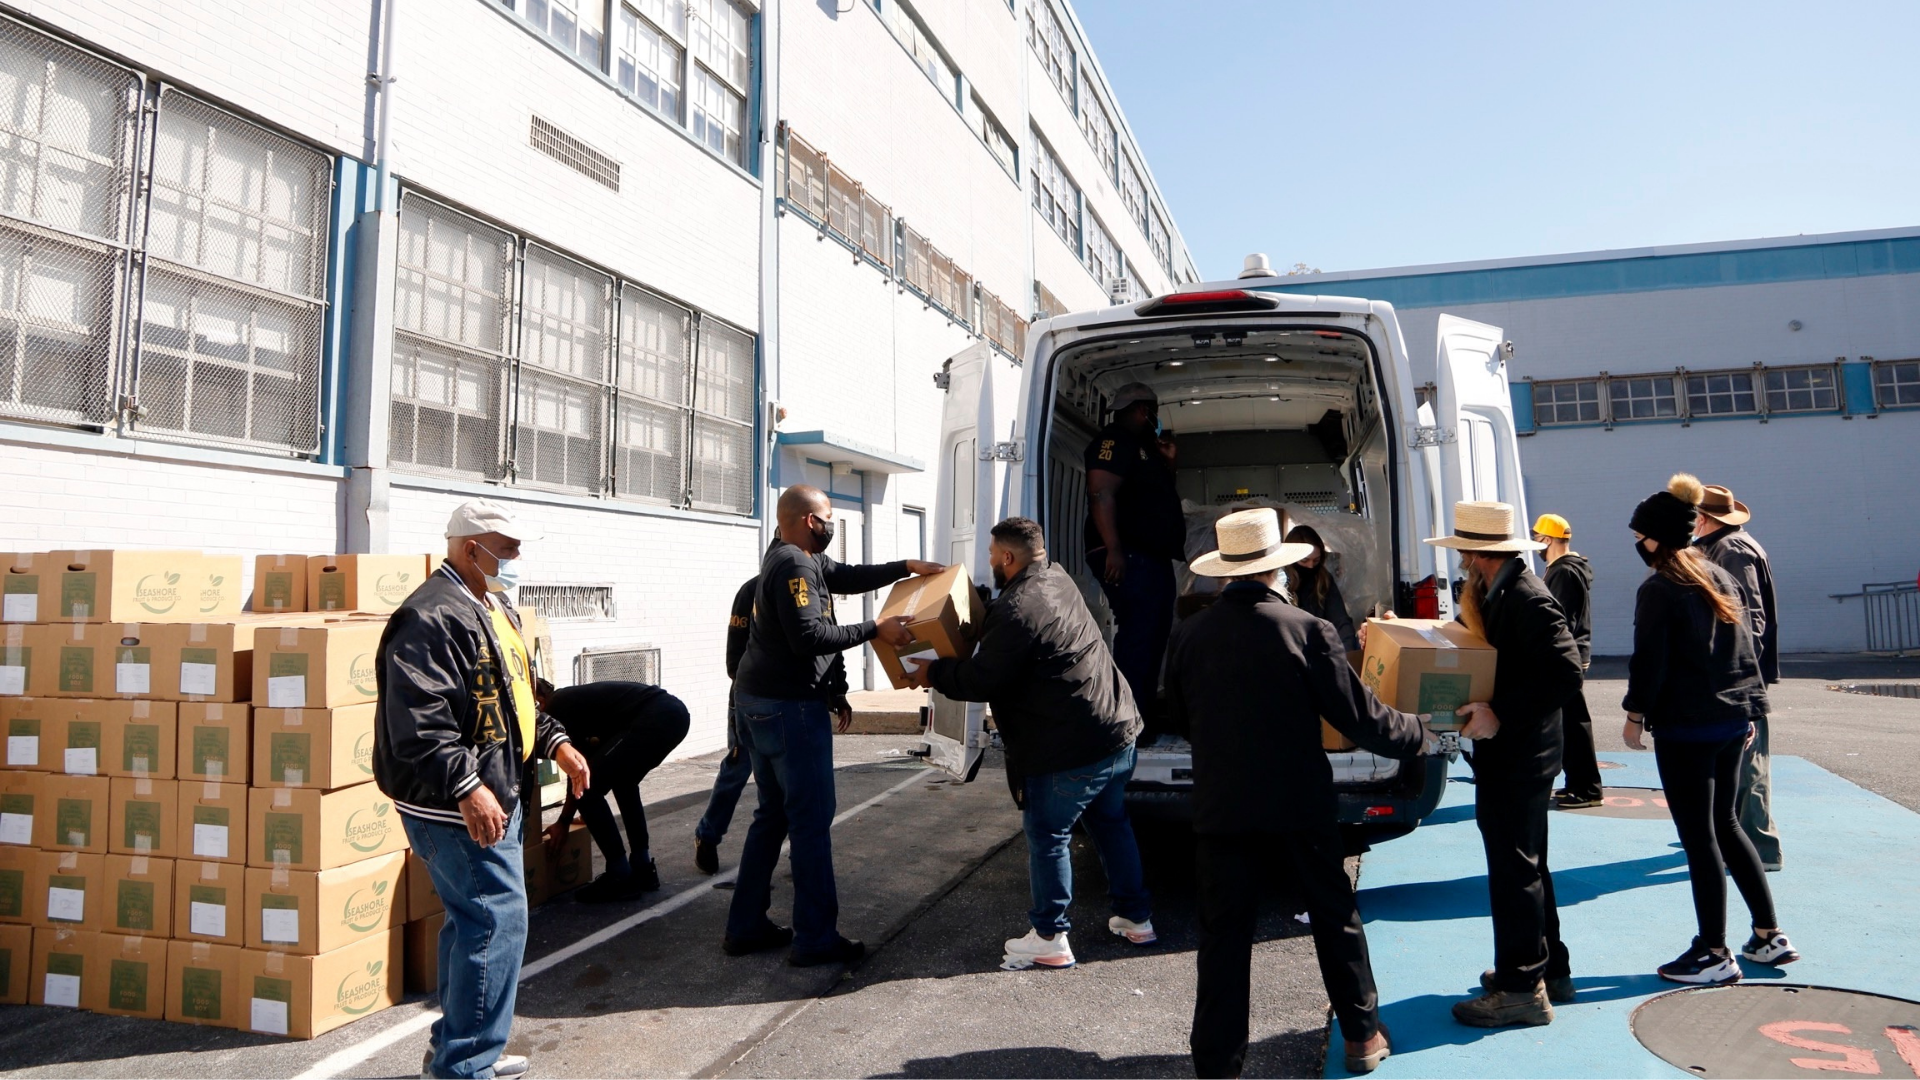
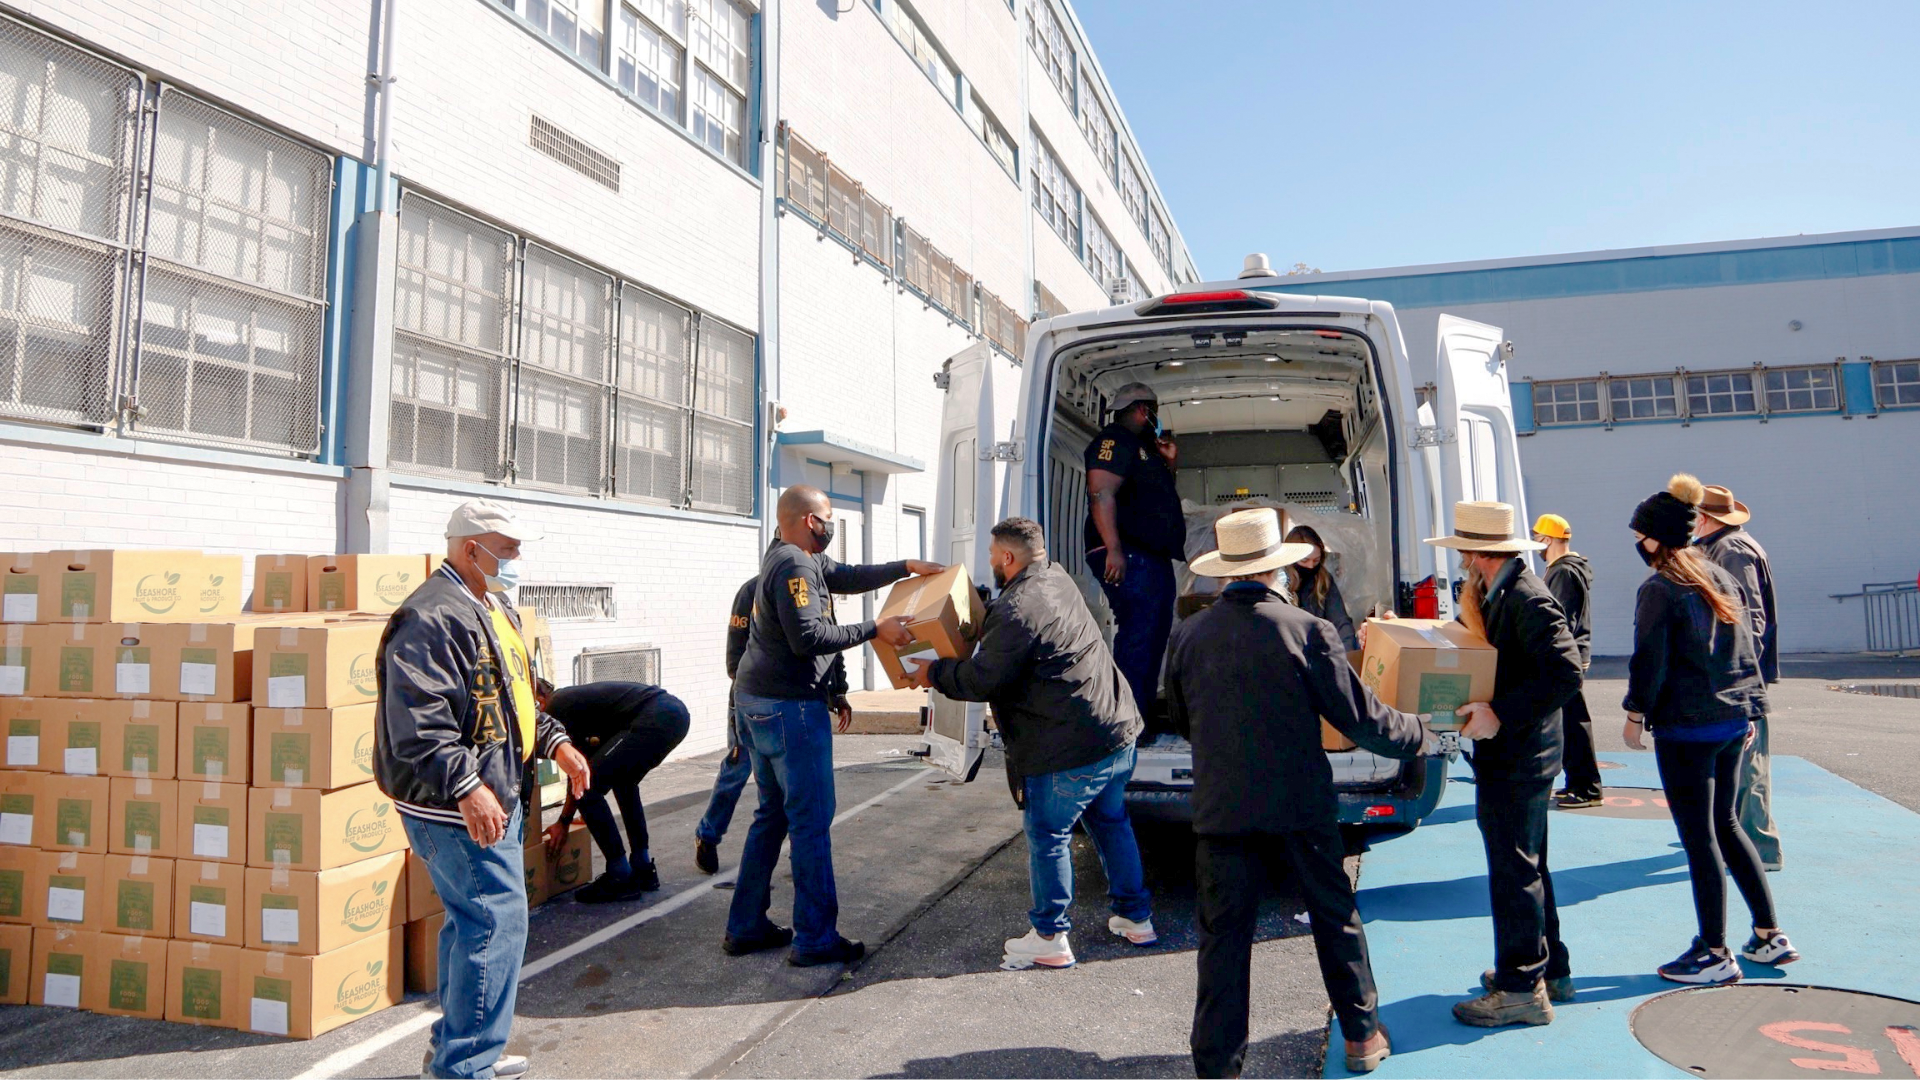
color editing on images + replacing header image with higher quality

diff --git a/components/About/About.tsx b/components/About/About.tsx
@@ -200,7 +200,7 @@ export const About: FC = () => {
         <title>About | Sharing Excess</title>
       </Head>
       <PageHeader
-        image={isMobile ? '/headers/about_mobile.png' : '/headers/about.png'}
+        image={isMobile ? '/headers/about_mobile.png' : '/headers/about.jpg'}
         label="ABOUT US"
         title={`Scaling human compassion,\none city at a time.`}
       />
